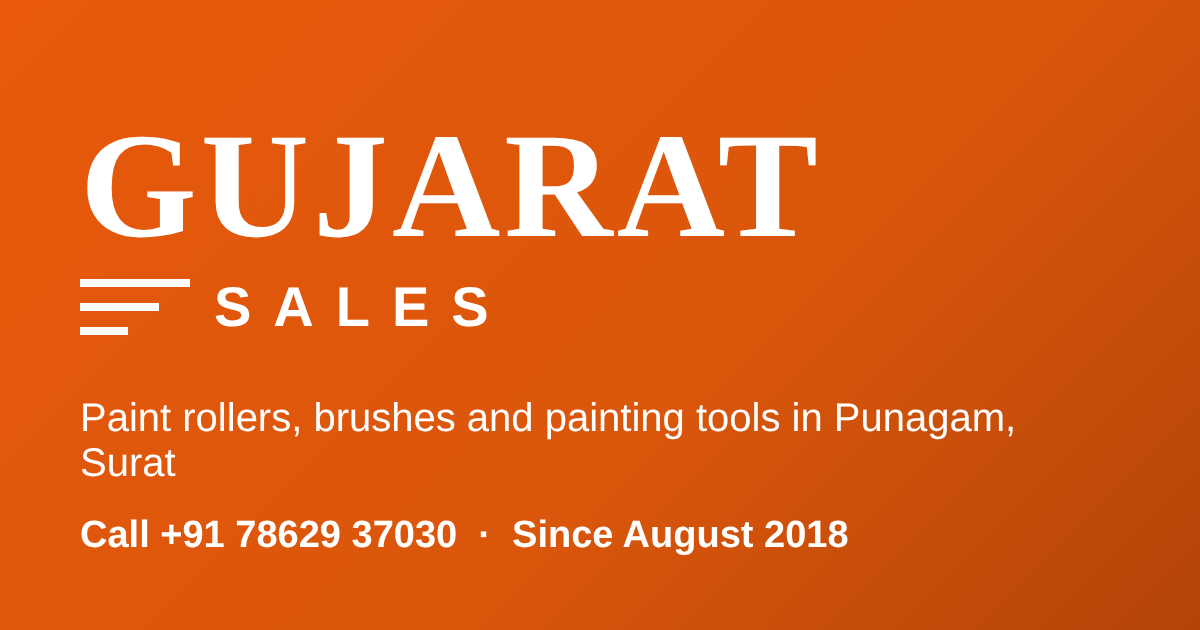
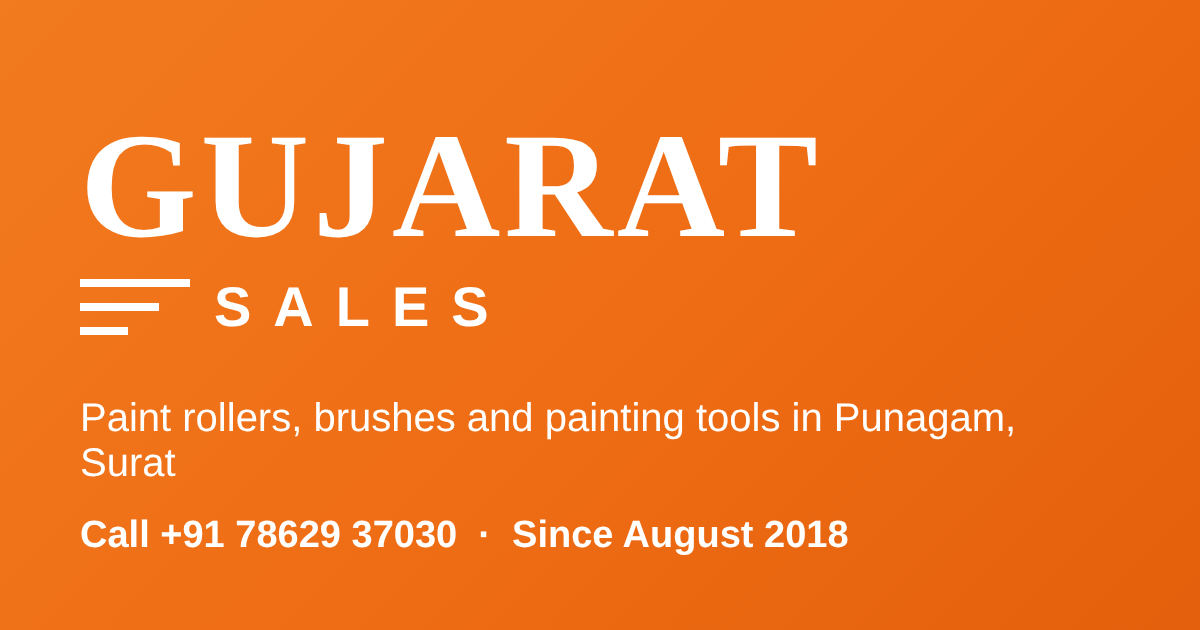
Make the orange lighter
Claude-Session: https://claude.ai/code/session_01Gf8WwP7awi3txm2pATxwgy

diff --git a/css/style.css b/css/style.css
@@ -2,10 +2,10 @@
    White and orange theme (D-015). Same layout style as the DK ENGINEER'S site (D-017). */
 
 :root {
-  --orange: #f26a1b;
-  --orange-deep: #d9560b;
-  --orange-dark: #b34408;
-  --orange-text: #c24a06;
+  --orange: #ff8a3d;
+  --orange-deep: #ee6c14;
+  --orange-dark: #d65a0c;
+  --orange-text: #c9540a;
   --charcoal: #1c1c1c;
 
   --text: #1f1f1f;
@@ -134,10 +134,10 @@ p { margin: 0 0 1em; }
 .button-row { display: flex; flex-wrap: wrap; gap: 12px; }
 
 /* Buttons on an orange band: white button, white outline */
-.on-orange .button { background: var(--white); border-color: var(--white); color: var(--orange-dark); }
+.on-orange .button { background: var(--white); border-color: var(--white); color: #b34408; }
 .on-orange .button:hover { background: var(--charcoal); border-color: var(--charcoal); color: var(--white); }
 .on-orange .button-outline { background: transparent; border-color: var(--white); color: var(--white); }
-.on-orange .button-outline:hover { background: var(--white); border-color: var(--white); color: var(--orange-dark); }
+.on-orange .button-outline:hover { background: var(--white); border-color: var(--white); color: #b34408; }
 .on-orange .button-whatsapp { background: var(--wa); border-color: var(--wa); color: var(--white); }
 .on-orange .button-whatsapp:hover { background: var(--wa-dark); border-color: var(--wa-dark); color: var(--white); }
 
@@ -233,11 +233,11 @@ p { margin: 0 0 1em; }
 /* ---------- Orange bands: hero, page header, call to action ---------- */
 
 .on-orange {
-  background: linear-gradient(135deg, #e8590c 0%, var(--orange-deep) 60%, #c24a06 100%);
+  background: linear-gradient(135deg, #f27a1f 0%, var(--orange-deep) 55%, #e4600c 100%);
   color: var(--white);
 }
-.on-orange .lede, .on-orange p { color: #fff4ec; }
-.on-orange .eyebrow { color: #ffe2cc; }
+.on-orange .lede, .on-orange p { color: #fff; }
+.on-orange .eyebrow { color: #fff1e4; }
 
 .hero { padding: 40px 0 48px; }
 .hero-inner { display: grid; gap: 32px; align-items: center; }
@@ -316,7 +316,7 @@ p { margin: 0 0 1em; }
 .tile-body { padding: 10px 12px 14px; }
 .tile h3 { margin: 2px 0 4px; font-size: 1.1875rem; }
 .tile p { margin: 0; color: var(--muted); font-size: 0.9375rem; line-height: 1.4; }
-.number { display: block; color: var(--orange); font-family: var(--font-head); font-size: 1.125rem; font-weight: 700; letter-spacing: 0.1em; }
+.number { display: block; color: var(--orange-deep); font-family: var(--font-head); font-size: 1.125rem; font-weight: 700; letter-spacing: 0.1em; }
 
 @media (min-width: 720px) { .tile-body { padding: 16px 18px 20px; } .tile p { font-size: 1rem; } }
 @media (min-width: 1000px) { .tile-grid { grid-template-columns: repeat(4, 1fr); gap: 20px; } }
@@ -366,7 +366,7 @@ img.art { width: 100%; aspect-ratio: 4 / 3; object-fit: contain; }
 
 .category-nav { display: flex; flex-wrap: wrap; gap: 10px; margin: 24px 0 0; padding: 0; list-style: none; }
 .category-nav a { display: inline-block; padding: 8px 16px; border: 2px solid var(--white); border-radius: 999px; color: var(--white); font-family: var(--font-head); font-size: 1.0625rem; font-weight: 600; letter-spacing: 0.06em; text-decoration: none; text-transform: uppercase; }
-.category-nav a:hover { background: var(--white); color: var(--orange-dark); }
+.category-nav a:hover { background: var(--white); color: #b34408; }
 
 .product-grid { display: grid; grid-template-columns: 1fr; gap: 12px; margin: 0; padding: 0; list-style: none; }
 .product { display: flex; flex-direction: row; overflow: hidden; border: 1px solid var(--line); border-radius: var(--radius); background: var(--white); }

diff --git a/404.html b/404.html
@@ -19,7 +19,7 @@
   <meta name="twitter:card" content="summary_large_image">
   <meta name="geo.region" content="IN-GJ">
   <meta name="geo.placename" content="Punagam, Surat">
-  <meta name="theme-color" content="#d9560b">
+  <meta name="theme-color" content="#ee6c14">
   <link rel="icon" href="images/favicon.svg" type="image/svg+xml">
   <link rel="preconnect" href="https://fonts.googleapis.com">
   <link rel="preconnect" href="https://fonts.gstatic.com" crossorigin>

diff --git a/about.html b/about.html
@@ -19,7 +19,7 @@
   <meta name="twitter:card" content="summary_large_image">
   <meta name="geo.region" content="IN-GJ">
   <meta name="geo.placename" content="Punagam, Surat">
-  <meta name="theme-color" content="#d9560b">
+  <meta name="theme-color" content="#ee6c14">
   <link rel="icon" href="images/favicon.svg" type="image/svg+xml">
   <link rel="preconnect" href="https://fonts.googleapis.com">
   <link rel="preconnect" href="https://fonts.gstatic.com" crossorigin>

diff --git a/contact.html b/contact.html
@@ -19,7 +19,7 @@
   <meta name="twitter:card" content="summary_large_image">
   <meta name="geo.region" content="IN-GJ">
   <meta name="geo.placename" content="Punagam, Surat">
-  <meta name="theme-color" content="#d9560b">
+  <meta name="theme-color" content="#ee6c14">
   <link rel="icon" href="images/favicon.svg" type="image/svg+xml">
   <link rel="preconnect" href="https://fonts.googleapis.com">
   <link rel="preconnect" href="https://fonts.gstatic.com" crossorigin>

diff --git a/index.html b/index.html
@@ -19,7 +19,7 @@
   <meta name="twitter:card" content="summary_large_image">
   <meta name="geo.region" content="IN-GJ">
   <meta name="geo.placename" content="Punagam, Surat">
-  <meta name="theme-color" content="#d9560b">
+  <meta name="theme-color" content="#ee6c14">
   <link rel="icon" href="images/favicon.svg" type="image/svg+xml">
   <link rel="preconnect" href="https://fonts.googleapis.com">
   <link rel="preconnect" href="https://fonts.gstatic.com" crossorigin>

diff --git a/products.html b/products.html
@@ -19,7 +19,7 @@
   <meta name="twitter:card" content="summary_large_image">
   <meta name="geo.region" content="IN-GJ">
   <meta name="geo.placename" content="Punagam, Surat">
-  <meta name="theme-color" content="#d9560b">
+  <meta name="theme-color" content="#ee6c14">
   <link rel="icon" href="images/favicon.svg" type="image/svg+xml">
   <link rel="preconnect" href="https://fonts.googleapis.com">
   <link rel="preconnect" href="https://fonts.gstatic.com" crossorigin>

diff --git a/decisions.md b/decisions.md
@@ -21,7 +21,7 @@ A log of choices made for the Gujarat Sales website and why. Add new decisions a
 | D-012 | No prices on the website; customers ask on WhatsApp | Accepted |
 | D-013 | No charges or fees mentioned anywhere on the website | Accepted |
 | D-014 | Contact order: Call first, then WhatsApp and email. Product enquiries use WhatsApp with a ready message | Accepted |
-| D-015 | White and orange theme, orange #f26a1b (buttons #d9560b); the owner asked for white and orange | Accepted |
+| D-015 | White and orange theme, orange #f26a1b (buttons #d9560b); the owner asked for white and orange | Replaced by D-024 |
 | D-016 | The site is for marketing and enquiries only: customers call to ask; no buying or ordering online | Accepted |
 | D-017 | Layout and style follow the DK ENGINEER'S site: orange hero band, numbered category tiles, feature cards, call-to-action band, phone action bar | Accepted |
 | D-018 | Product pictures are simple drawings (`data-art`) until real white-background photos are added | Proposed |
@@ -30,6 +30,7 @@ A log of choices made for the Gujarat Sales website and why. Add new decisions a
 | D-021 | Header, footer, contact details and product drawings are written into each page's HTML so Google can read them | Accepted |
 | D-022 | Logo is a text wordmark like the visiting card (slab-serif GUJARAT, speed lines, SALES), not a "GS" square | Accepted |
 | D-023 | SEO set-up: unique titles and descriptions, canonical URL, share image, structured data, sitemap, robots, plain-English product pages | Accepted |
+| D-024 | Lighter, brighter orange (#ee6c14 main, #ff8a3d accent); replaces the colours in D-015 | Accepted |
 
 When you add a decision, add a row here too.
 
@@ -189,3 +190,7 @@ SEO set-up: one `h1` per page, a unique title and description per page, a canoni
 
 **Why:** the owner asked for better SEO. If a custom domain is added, change `siteUrl` and the address in the canonical, share, sitemap and robots files. `robots.txt` is only read by Google when the site has its own domain.
 
+## D-024
+The orange is lighter and brighter: main bands and buttons #ee6c14 (hero gradient #f27a1f to #e4600c), accent #ff8a3d, text orange on white #c9540a. Set as CSS variables at the top of `css/style.css`. Replaces the colours in D-015 (white and orange stays).
+
+**Why:** the owner said the orange did not look good and asked for it a little lighter. White text on #ee6c14 is about 3.1:1, fine for big bold text but weaker for small text, so small text on orange bands stays white and bold, and buttons on orange are white with dark orange text.

diff --git a/progress.md b/progress.md
@@ -42,3 +42,4 @@ Where the project stands right now, and a dated log of what was done. Update thi
   - **Hours:** now "Mon – Sat: 8 AM – 8 PM · Sunday closed" everywhere.
   - **Content:** home page now says what the shop and website are, has a numbers strip, "four easy steps" and a questions section; About page has the story, 8+ years and 120+ customers (D-020); every product has a short plain-English description (to be checked by the owner).
   - **SEO (D-021, D-023):** header, footer, address and drawings written into the HTML; unique titles and descriptions; canonical links; share image; structured data; `sitemap.xml` and `robots.txt`.
+- Owner asked for a lighter orange. Main orange is now #ee6c14 with a brighter hero gradient, accent #ff8a3d; favicon, share image and browser theme colour updated (D-024). White text is a little less contrasty, so tell me if it should be lighter or darker.
